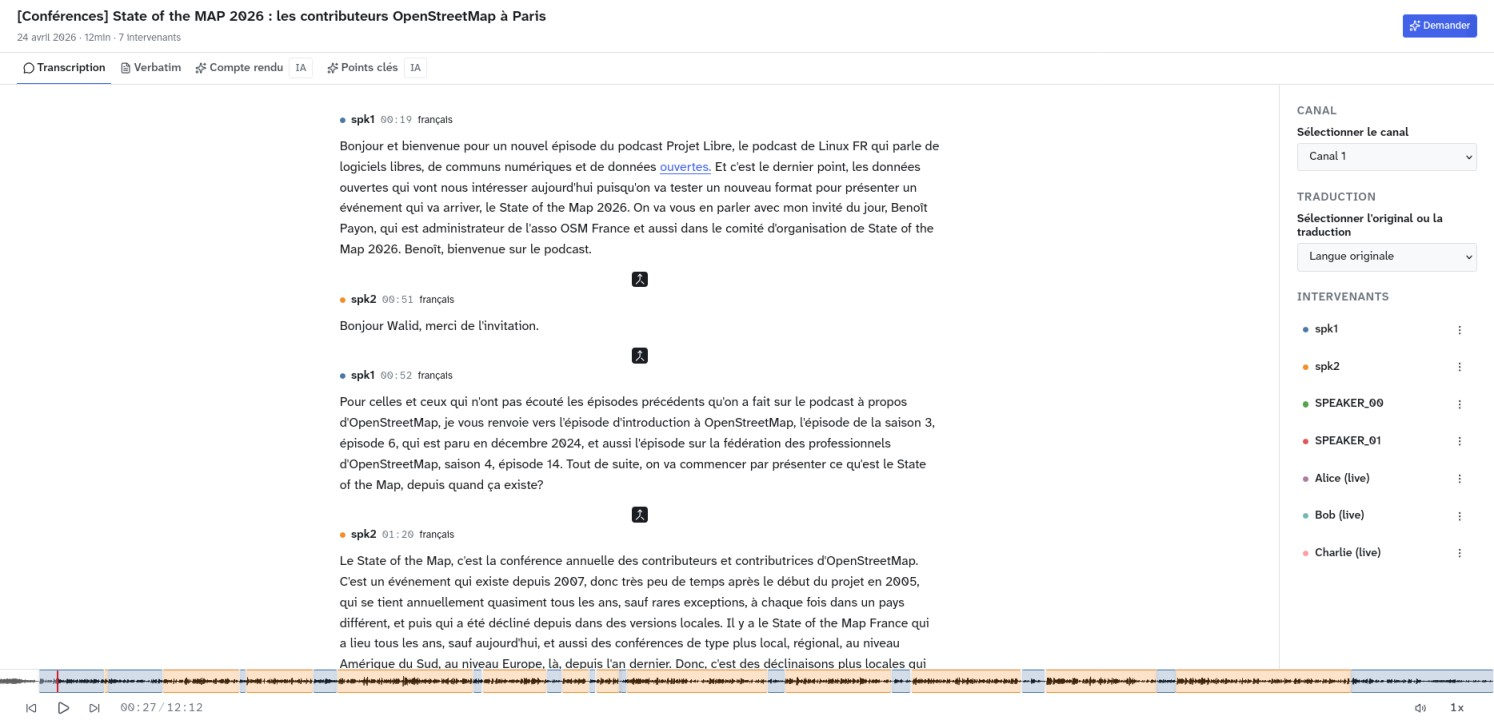
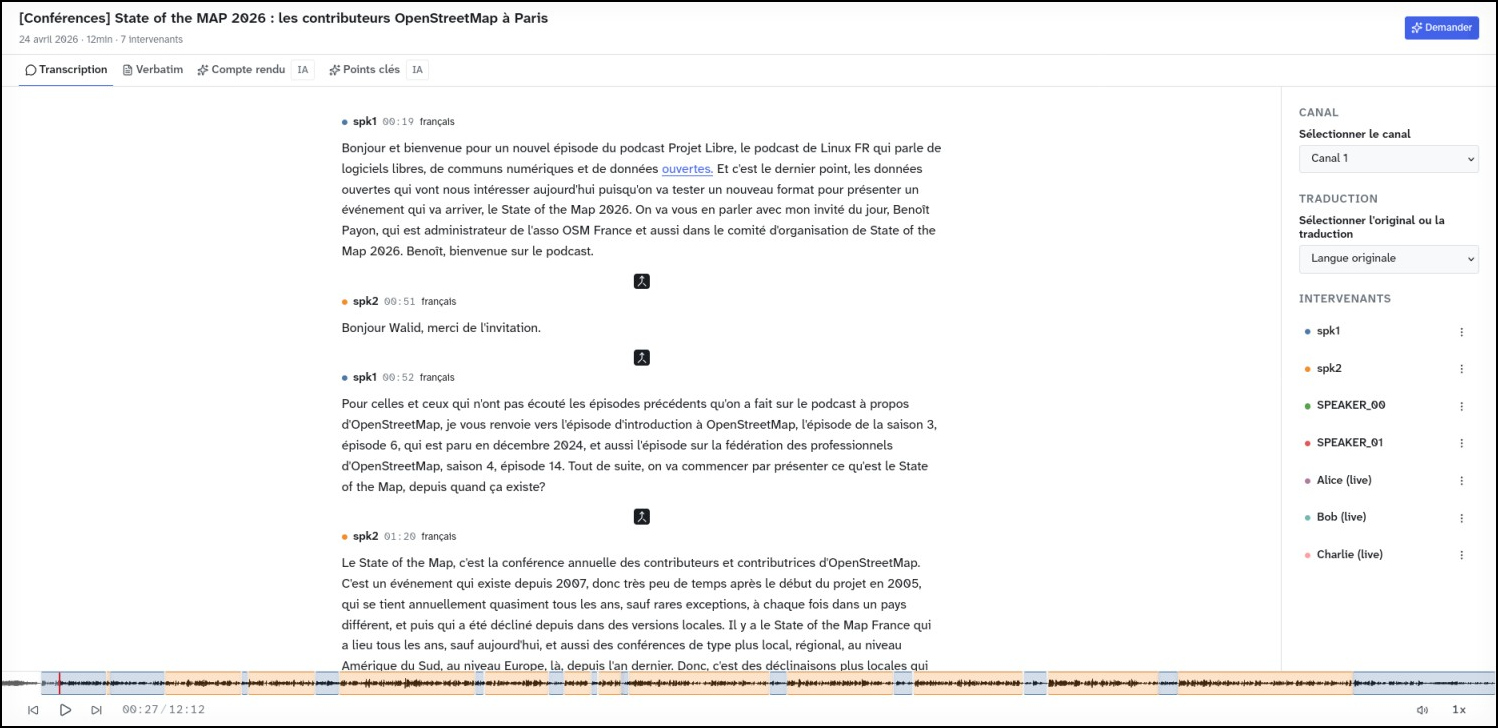
Add package readme

diff --git a/studio-sdk/components/transcript-ui/packages/plugin-live/README.md b/studio-sdk/components/transcript-ui/packages/plugin-live/README.md
@@ -1,3 +1,75 @@
 # @linto/transcript-ui-plugin-live
 
 Ingests a real-time transcription feed: partial and final segments as they arrive, text-to-speech playback of live turns, and the state the subtitle plugin and transcript panel read to follow along live.
+
+## Usage
+
+```ts
+import { createLivePlugin } from "@linto/transcript-ui-plugin-live"
+
+core.use(createLivePlugin({ tts: true })) // tts: offer voice playback of live turns
+```
+
+Feed it from your transcription stream (e.g. a websocket):
+
+```ts
+socket.on("partial", (event) => core.live?.onPartial(event, channelId))
+socket.on("final", (event) => core.live?.onFinal(event, channelId))
+socket.on("translation", (event) => core.live?.onTranslation(event))
+```
+
+Loading older history (pagination) uses `prependFinal`/`prependFinalBatch` instead — the transcript panel emits `scroll:top` when the user scrolls near the top of an already-loaded track:
+
+```ts
+core.on("scroll:top", async ({ translationId }) => {
+  const olderTurns = await api.fetchHistory(translationId)
+  core.live?.prependFinalBatch(olderTurns, channelId)
+})
+```
+
+## Event shapes
+
+```ts
+interface LivePartialEvent {
+  turnId?: string // segment this partial belongs to (matches the opposite-
+                   // language partial in cross/translation mode)
+  text?: string
+  language: string
+}
+
+interface LiveFinalEvent {
+  turnId: string
+  speakerId: string | null
+  text?: string
+  words: Array<{
+    id: string
+    text: string
+    startTime?: number
+    endTime?: number
+    confidence?: number
+  }>
+  startTime: number
+  endTime: number
+  startDate?: number // Unix seconds — wall-clock fallback when startTime is absent
+  endDate?: number
+  language: string
+  translations?: Array<{ translationId: string; text: string; language: string }>
+}
+
+interface LiveTranslationEvent {
+  turnId: string
+  language: string
+  sourceLanguage: string // the original (source) side being translated from
+  text: string
+  final: boolean
+  startTime: number
+  endTime: number
+  speakerId: string | null
+}
+```
+
+A partial has no fixed shape requirement beyond `language` — send whatever text you have as it's transcribed, the plugin just tracks the latest one per channel. A final is the committed turn: `words` carries word-level timing when you have it (ASR), otherwise leave it empty and set `text` instead — same "one or the other" contract as a regular `Turn`. `onTranslation` is for a live translation track arriving as its own stream rather than riding along in `translations` on the final.
+
+## In production
+
+[`SessionLiveNG.vue`](https://github.com/linto-ai/linto-studio/blob/next/studio-frontend/src/components/SessionLiveNG.vue) (LinTO Studio) wires `onPartial`/`onFinal`/`onTranslation` to a WebSocket subscription.

diff --git a/studio-sdk/components/transcript-ui/packages/plugin-transcription-editor/README.md b/studio-sdk/components/transcript-ui/packages/plugin-transcription-editor/README.md
@@ -1,3 +1,42 @@
 # @linto/transcript-ui-plugin-transcription-editor
 
-Collaborative editing of turns and speakers: rename, split, merge, and reassign, with per-turn locks and server-authoritative sync (the host applies broadcasts from other editors; this plugin never computes retimed truth itself).
+Collaborative editing of turns and speakers: rename, split, merge, and reassign, with per-turn locks and server-authoritative sync. This plugin never computes the retimed truth itself — every option below is optimistic-local-then-server-broadcast: the edit applies instantly in the UI, your callback pushes it to the backend, and the backend's broadcast (applied back through `core.transcriptionEditor.apply*`) is what actually sticks.
+
+## Usage
+
+```ts
+import { createTranscriptionEditorPlugin } from "@linto/transcript-ui-plugin-transcription-editor"
+
+core.use(
+  createTranscriptionEditorPlugin({
+    saveTurn: async ({ translationId, turnId, text }) => {
+      const ok = await api.saveTurn(translationId, turnId, text)
+      return { ok }
+    },
+    lockTurn: async ({ translationId, turnId }) => {
+      const holder = await api.lockTurn(translationId, turnId)
+      return { ok: !holder, holder }
+    },
+    unlockTurn: async ({ translationId, turnId }) => {
+      await api.unlockTurn(translationId, turnId)
+      return { ok: true }
+    },
+    // splitTurn, deleteTurn, mergeTurns, updateTurnSpeaker, renameSpeaker,
+    // replaceSpeaker, refetchTranslation — same shape, all optional.
+  }),
+)
+```
+
+Apply what the backend broadcasts to other clients (e.g. over a websocket) the same way:
+
+```ts
+socket.on("editor:turn_updated", (update) => {
+  core.transcriptionEditor?.applyTurnUpdate(update)
+})
+```
+
+Locks broadcast by the server are pushed with `setLocks`/`setTurnLock`/`clearTurnLock`; a reconnect re-ack that reports a version gap is handled by calling your `refetchTranslation` and then `reconcileVersions`.
+
+## In production
+
+[`ConversationsTranscription.vue`](https://github.com/linto-ai/linto-studio/blob/next/studio-frontend/src/views/ConversationsTranscription.vue) (LinTO Studio) wires every callback above to its WebSocket API.

diff --git a/studio-sdk/components/transcript-ui/packages/plugin-chat/README.md b/studio-sdk/components/transcript-ui/packages/plugin-chat/README.md
@@ -1,3 +1,37 @@
 # @linto/transcript-ui-plugin-chat
 
 A chat panel for talking with an LLM assistant about the transcript — sessions, streaming responses, message history. No network calls: the UI emits intents (send, load session, …) and the host performs the actual requests, pushing results back in.
+
+## Usage
+
+```ts
+import { createChatPlugin } from "@linto/transcript-ui-plugin-chat"
+
+core.use(createChatPlugin())
+
+core.on("chat:loadSessions", async () => {
+  core.chat!.setSessions(await api.listSessions())
+})
+
+core.on("chat:loadSession", async ({ sessionId }) => {
+  core.chat!.setActiveSession(sessionId)
+  core.chat!.setLoadingSession(true)
+  core.chat!.setMessages(await api.fetchMessages(sessionId))
+  core.chat!.setLoadingSession(false)
+})
+
+core.on("chat:send", async ({ content }) => {
+  const userMessage = { id: crypto.randomUUID(), role: "user" as const, content }
+  core.chat!.addMessage(userMessage)
+
+  core.chat!.streamStart()
+  let fullReply = ""
+  for await (const token of api.streamReply(content)) {
+    fullReply += token
+    core.chat!.streamAppend(token)
+  }
+  core.chat!.streamEnd(fullReply)
+})
+```
+
+The header's "ask" button already opens the drawer on its own once this plugin is active — call `core.chat!.setDrawerOpen(true)` yourself only if you're triggering it from your own UI instead.

diff --git a/studio-sdk/components/transcript-ui/packages/plugin-audio/README.md b/studio-sdk/components/transcript-ui/packages/plugin-audio/README.md
@@ -1,3 +1,28 @@
 # @linto/transcript-ui-plugin-audio
 
 Audio playback synced with the transcript: waveform display, active-word/active-turn highlighting as playback progresses, click-to-seek, and per-speaker region coloring on the waveform.
+
+## Usage
+
+```ts
+import { createAudioPlugin } from "@linto/transcript-ui-plugin-audio"
+
+core.use(
+  createAudioPlugin({
+    // Resolve a Channel/Translation's `audio.src` into a playable URL —
+    // add auth, fetch as a blob, whatever your backend requires.
+    // (generateUrl/fileId below are just this host's own routing — not
+    // part of this library.)
+    resolveSrc: async (source) => {
+      const response = await fetch(generateUrl(`apps/linto/api/audio/${fileId}`))
+      if (!response.ok) throw new Error("Audio unavailable")
+      const blob = await response.blob()
+      return URL.createObjectURL(blob)
+    },
+  }),
+)
+```
+
+Any `blob:` URL returned by `resolveSrc` is revoked automatically when the source changes or the plugin is destroyed.
+
+`resolveWaveform` is the same idea for precomputed waveform peaks (e.g. fetched from your API) — return `null` to fall back to client-side decoding.

diff --git a/studio-sdk/components/transcript-ui/packages/plugin-llm-services/README.md b/studio-sdk/components/transcript-ui/packages/plugin-llm-services/README.md
@@ -1,3 +1,31 @@
 # @linto/transcript-ui-plugin-llm-services
 
 Generated documents derived from the transcript — summaries, reports, key points — with versioning, regeneration, and progress/status tracking. No network calls: the host generates content and pushes it in; this plugin only holds and exposes the state.
+
+## Usage
+
+```ts
+import { createLLMServicesPlugin } from "@linto/transcript-ui-plugin-llm-services"
+
+core.use(createLLMServicesPlugin())
+
+core.llmServices!.register({
+  id: "summary",
+  label: "Summary",
+  status: "queued",
+})
+```
+
+React to the UI's intents and push the result back in as it arrives:
+
+```ts
+core.on("llmService:regenerate", async ({ id }) => {
+  core.llmServices!.setStatus(id, "processing")
+  const content = await api.generateSummary(id, { onProgress: (p) => core.llmServices!.setProgress(id, p) })
+  core.llmServices!.setContent(id, content, Date.now())
+  core.llmServices!.setStatus(id, "complete")
+})
+
+core.on("llmService:export", ({ id }) => api.exportDocument(id))
+core.on("llmService:saveVersion", ({ id, content }) => api.saveVersion(id, content))
+```

diff --git a/studio-sdk/components/transcript-ui/packages/plugin-subtitle/README.md b/studio-sdk/components/transcript-ui/packages/plugin-subtitle/README.md
@@ -1,3 +1,29 @@
 # @linto/transcript-ui-plugin-subtitle
 
 Fullscreen or banner subtitle display driven by the transcript (live or not), with an optional cycling watermark (text and/or image tokens).
+
+## Usage
+
+```ts
+import { createSubtitlePlugin } from "@linto/transcript-ui-plugin-subtitle"
+
+core.use(
+  createSubtitlePlugin({
+    fontSize: 40,
+    isVisible: true,
+    watermark: {
+      content: "{logo} Recorded with LinTO",
+      tokens: { logo: { src: "/logo.svg", alt: "LinTO" } },
+      frequency: 30, // show every 30s
+      duration: 5, // for 5s
+    },
+  }),
+)
+```
+
+Toggle it from your own UI (a settings panel, a button, …) through the reactive state it exposes:
+
+```ts
+core.subtitle!.isVisible.value = true
+core.subtitle!.enterFullscreen()
+```
